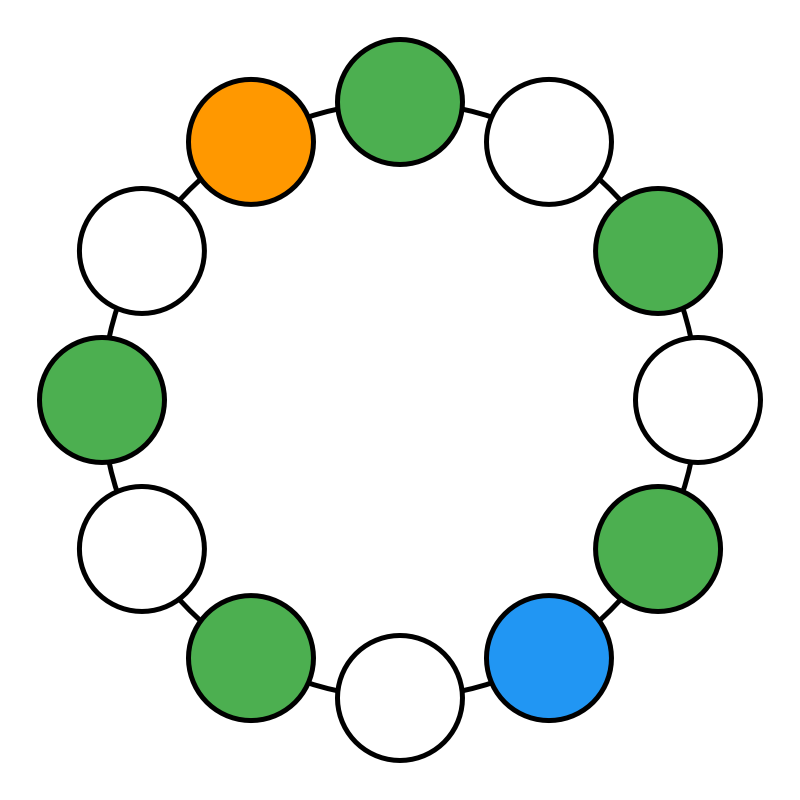
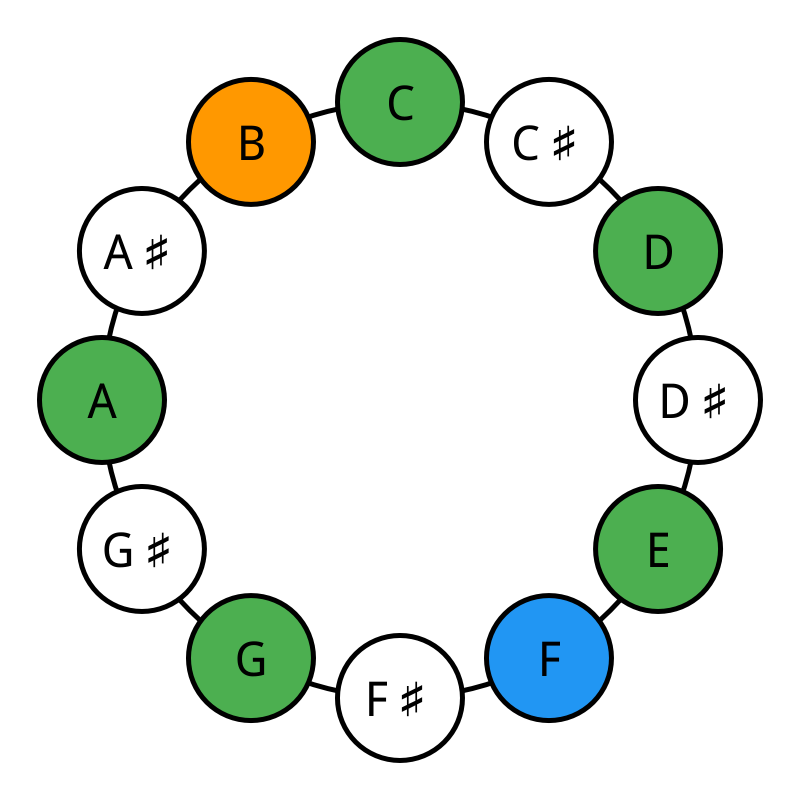
bracelet diagram label (#34)

diff --git a/pkg/illustations/bracelet.go b/pkg/illustations/bracelet.go
@@ -33,10 +33,14 @@ func pitchSliceToMap(pitches []pitch.Type) map[pitch.Type]struct{} {
 	return pitchMap
 }
 
-func drawBracelet(pitches []pitch.Type, circle []pitch.Type) image.Image {
+func drawBracelet(pitches []pitch.Type, circle []pitch.Type, labels map[pitch.Type]string) (image.Image, error) {
 	width := 800
 	height := 800
 	dc := gg.NewContext(width, height)
+	if err := dc.LoadFontFace("DroidSansFallback.ttf", 48); err != nil {
+		return nil, err
+	}
+
 	centerX := float64(width) / 2
 	centerY := float64(height) / 2
 
@@ -89,15 +93,48 @@ func drawBracelet(pitches []pitch.Type, circle []pitch.Type) image.Image {
 
 		// fill
 		dc.Fill()
+
+		// draw text
+		dc.SetRGB(0, 0, 0)
+		dc.DrawStringAnchored(labels[p], centerX+x, centerY-y, 0.5, 0.5)
 	}
 
-	return dc.Image()
+	return dc.Image(), nil
 }
 
-func PitchClassBracelet(pitches []pitch.Type) image.Image {
-	return drawBracelet(pitches, pitch.AllPitches())
+func PitchClassBracelet(pitches []pitch.Type) (image.Image, error) {
+	labels := map[pitch.Type]string{
+		pitch.CNatural: "C",
+		pitch.CSharp:   "C♯",
+		pitch.DNatural: "D",
+		pitch.DSharp:   "D♯",
+		pitch.ENatural: "E",
+		pitch.FNatural: "F",
+		pitch.FSharp:   "F♯",
+		pitch.GNatural: "G",
+		pitch.GSharp:   "G♯",
+		pitch.ANatural: "A",
+		pitch.ASharp:   "A♯",
+		pitch.BNatural: "B",
+	}
+
+	return drawBracelet(pitches, pitch.AllPitches(), labels)
 }
 
-func CircleOfFifthBracelet(pitches []pitch.Type) image.Image {
-	return drawBracelet(pitches, circleOfFifths())
+func CircleOfFifthBracelet(pitches []pitch.Type) (image.Image, error) {
+	labels := map[pitch.Type]string{
+		pitch.CNatural: "C",
+		pitch.CSharp:   "C♯",
+		pitch.DNatural: "D",
+		pitch.DSharp:   "E♭",
+		pitch.ENatural: "E",
+		pitch.FNatural: "F",
+		pitch.FSharp:   "F♯",
+		pitch.GNatural: "G",
+		pitch.GSharp:   "A♭",
+		pitch.ANatural: "A",
+		pitch.ASharp:   "B♭",
+		pitch.BNatural: "B",
+	}
+	return drawBracelet(pitches, circleOfFifths(), labels)
 }

diff --git a/pkg/theory/scale/scale.go b/pkg/theory/scale/scale.go
@@ -1941,12 +1941,12 @@ func (s Type) Balanced() bool {
 }
 
 // FifthGeneratorRoot returns a pitch and degree where the scale can be generated by fetching the next fifth, assuming scale stars with C
-func (s Type) FifthGeneratorRoot() pitch.WithDegree {
+func (s Type) FifthGeneratorRoot() Generator {
 	return s.FifthGeneratorRootWithTonic(pitch.CNatural)
 }
 
 // FifthGeneratorRootWithTonic returns a pitch and degree where the scale can be generated by fetching the next fifth with custom tonic
-func (s Type) FifthGeneratorRootWithTonic(tonic pitch.Type) pitch.WithDegree {
+func (s Type) FifthGeneratorRootWithTonic(tonic pitch.Type) Generator {
 	allPitches := s.Pitches(tonic)
 	orphanPitches := make([]pitch.WithDegree, 0)
 	centerPitches := make([]pitch.WithDegree, 0)
@@ -1969,11 +1969,12 @@ func (s Type) FifthGeneratorRootWithTonic(tonic pitch.Type) pitch.WithDegree {
 		}
 	}
 
-	if len(leftPitches) == 1 {
-		return leftPitches[0]
+	return Generator{
+		Orphan: orphanPitches,
+		Left:   leftPitches,
+		Center: centerPitches,
+		Right:  rightPitches,
 	}
-
-	return pitch.WithDegree{}
 }
 
 func makePitchMap(pitches []pitch.Type) map[pitch.Type]struct{} {
@@ -1991,4 +1992,28 @@ func FromInt(num int) Type {
 		return Invalid
 	}
 	return Type(num)
+}
+
+// Generator is scale generator components
+type Generator struct {
+	Orphan []pitch.WithDegree
+	Left   []pitch.WithDegree
+	Center []pitch.WithDegree
+	Right  []pitch.WithDegree
+}
+
+func (g Generator) Root() pitch.WithDegree {
+	if len(g.Left) == 1 {
+		return g.Left[0]
+	}
+
+	return pitch.WithDegree{}
+}
+
+func (g Generator) Edge() pitch.WithDegree {
+	if len(g.Right) == 1 {
+		return g.Right[0]
+	}
+
+	return pitch.WithDegree{}
 }

diff --git a/internal/theory/handler_scale.go b/internal/theory/handler_scale.go
@@ -146,10 +146,18 @@ func (h theoryHandler) IllustrateScaleAsPitchClassBraceletDiagram(writer http.Re
 		pitches = append(pitches, pitch.FromInt(v+1))
 	}
 
+	// draw bracelet illustration
+	img, err := illustations.PitchClassBracelet(pitches)
+	if err != nil {
+		h.Logger().With(zap.Error(err)).Error("failed to draw bracelet diagram illustration for scale")
+		writer.WriteHeader(http.StatusInternalServerError)
+		return
+	}
+
 	writer.WriteHeader(http.StatusOK)
 	writer.Header().Set("Content-Type", "image/png")
 	writer.Header().Set("Content-Disposition", fmt.Sprintf("inline; filename=%q", fmt.Sprintf("%sCircleOfFifthBracelet.png", scale.Name)))
-	_ = png.Encode(writer, illustations.PitchClassBracelet(pitches))
+	_ = png.Encode(writer, img)
 }
 
 func (h theoryHandler) IllustrateScaleAsCircleOfFifthBraceletDiagram(writer http.ResponseWriter, request *http.Request) {
@@ -173,8 +181,16 @@ func (h theoryHandler) IllustrateScaleAsCircleOfFifthBraceletDiagram(writer http
 		pitches = append(pitches, pitch.FromInt(v+1))
 	}
 
+	// draw bracelet illustration
+	img, err := illustations.CircleOfFifthBracelet(pitches)
+	if err != nil {
+		h.Logger().With(zap.Error(err)).Error("failed to draw bracelet diagram illustration for scale")
+		writer.WriteHeader(http.StatusInternalServerError)
+		return
+	}
+
 	writer.WriteHeader(http.StatusOK)
 	writer.Header().Set("Content-Type", "image/png")
 	writer.Header().Set("Content-Disposition", fmt.Sprintf("inline; filename=%q", fmt.Sprintf("%sCircleOfFifthBracelet.png", scale.Name)))
-	_ = png.Encode(writer, illustations.CircleOfFifthBracelet(pitches))
+	_ = png.Encode(writer, img)
 }

diff --git a/internal/theory/handler_key.go b/internal/theory/handler_key.go
@@ -158,10 +158,18 @@ func (h theoryHandler) IllustrateKeyAsPitchClassBraceletDiagram(writer http.Resp
 		pitches = append(pitches, pitch.FromInt(int(v.ID)))
 	}
 
+	// draw bracelet diagram
+	img, err := illustations.PitchClassBracelet(pitches)
+	if err != nil {
+		h.Logger().With(zap.Error(err)).Error("failed to draw bracelet diagram illustration for key")
+		writer.WriteHeader(http.StatusInternalServerError)
+		return
+	}
+
 	writer.WriteHeader(http.StatusOK)
 	writer.Header().Set("Content-Type", "image/png")
 	writer.Header().Set("Content-Disposition", fmt.Sprintf("inline; filename=%q", fmt.Sprintf("%sCircleOfFifthBracelet.png", key.Name)))
-	_ = png.Encode(writer, illustations.PitchClassBracelet(pitches))
+	_ = png.Encode(writer, img)
 }
 
 func (h theoryHandler) IllustrateKeyAsCircleOfFifthBraceletDiagram(writer http.ResponseWriter, request *http.Request) {
@@ -190,8 +198,16 @@ func (h theoryHandler) IllustrateKeyAsCircleOfFifthBraceletDiagram(writer http.R
 		pitches = append(pitches, pitch.FromInt(int(v.ID)))
 	}
 
+	// draw bracelet diagram
+	img, err := illustations.CircleOfFifthBracelet(pitches)
+	if err != nil {
+		h.Logger().With(zap.Error(err)).Error("failed to draw bracelet diagram illustration for key")
+		writer.WriteHeader(http.StatusInternalServerError)
+		return
+	}
+
 	writer.WriteHeader(http.StatusOK)
 	writer.Header().Set("Content-Type", "image/png")
 	writer.Header().Set("Content-Disposition", fmt.Sprintf("inline; filename=%q", fmt.Sprintf("%sCircleOfFifthBracelet.png", key.Name)))
-	_ = png.Encode(writer, illustations.CircleOfFifthBracelet(pitches))
+	_ = png.Encode(writer, img)
 }

diff --git a/pkg/illustations/bracelet_test.go b/pkg/illustations/bracelet_test.go
@@ -19,8 +19,11 @@ func TestPitchClassBracelet(t *testing.T) {
 	}
 	defer func() { _ = os.Remove(file.Name()) }()
 
+	img, err := illustations.PitchClassBracelet(scale.Ionian.Pitches(pitch.CNatural))
+	require.NoError(t, err)
+
 	// draw CNaturalIonian
-	require.NoError(t, png.Encode(file, illustations.PitchClassBracelet(scale.Ionian.Pitches(pitch.CNatural))))
+	require.NoError(t, png.Encode(file, img))
 }
 
 func TestCircleOfFifthBracelet(t *testing.T) {
@@ -30,6 +33,9 @@ func TestCircleOfFifthBracelet(t *testing.T) {
 	}
 	defer func() { _ = os.Remove(file.Name()) }()
 
+	img, err := illustations.CircleOfFifthBracelet(scale.Ionian.Pitches(pitch.CNatural))
+	require.NoError(t, err)
+
 	// draw CNaturalIonian
-	require.NoError(t, png.Encode(file, illustations.CircleOfFifthBracelet(scale.Ionian.Pitches(pitch.CNatural))))
+	require.NoError(t, png.Encode(file, img))
 }

diff --git a/pkg/theory/scale/scale_test.go b/pkg/theory/scale/scale_test.go
@@ -238,7 +238,8 @@ func TestType_FifthGeneratorRoot(t *testing.T) {
 
 	for _, tc := range testCases {
 		t.Run(tc.Title, func(t *testing.T) {
-			assert.Equal(t, tc.ExpectedRoot, tc.GivenScale.FifthGeneratorRoot())
+			generator := tc.GivenScale.FifthGeneratorRoot()
+			assert.Equal(t, tc.ExpectedRoot, generator.Root())
 		})
 	}
 }
@@ -298,7 +299,8 @@ func TestType_FifthGeneratorRootWithTonic(t *testing.T) {
 
 	for _, tc := range testCases {
 		t.Run(tc.Title, func(t *testing.T) {
-			assert.Equal(t, tc.ExpectedRoot, tc.GivenScale.FifthGeneratorRootWithTonic(tc.GivenTonic))
+			generator := tc.GivenScale.FifthGeneratorRootWithTonic(tc.GivenTonic)
+			assert.Equal(t, tc.ExpectedRoot, generator.Root())
 		})
 	}
 }

diff --git a/cmd/api/main.go b/cmd/api/main.go
@@ -28,6 +28,7 @@ func main() {
 	vpr, err := loadConfig()
 	if err != nil {
 		logger.With(zap.Error(err)).Fatal("failed to load configuration")
+		return
 	}
 
 	router := mux.NewRouter()
@@ -50,9 +51,15 @@ func main() {
 	))
 	if err != nil {
 		logger.With(zap.Error(err)).Fatal("failed to parse database connection config")
+		return
 	}
 
+	// connect to database
 	db, err := sqlx.Open("pgx", stdlib.RegisterConnConfig(connConfig))
+	if err != nil {
+		logger.With(zap.Error(err)).Fatal("failed to connect to database")
+		return
+	}
 
 	theoryRepository := theory.NewRepository(logger, db)
 	theoryService := theory.NewService(logger, theoryRepository)

diff --git a/cmd/gen/gen_scale.go b/cmd/gen/gen_scale.go
@@ -49,8 +49,8 @@ func buildScalesTableSeed(logger *zap.Logger, writer io.Writer) error {
 		reflectiveSymmetryAxes := v.ReflectiveSymmetryAxes()
 		encodedReflectiveSymmetryAxes, _ := json.Marshal(reflectiveSymmetryAxes)
 		balanced := v.Balanced()
-		fifthGeneratorRoot := v.FifthGeneratorRoot()
-		fifthGeneratorRootDegree := int(fifthGeneratorRoot.Degree)
+		fifthGenerator := v.FifthGeneratorRoot()
+		fifthGeneratorRootDegree := int(fifthGenerator.Root().Degree)
 		scaleEntries = append(scaleEntries, scaleEntry{
 			ID:                       int64(i + 1),
 			Name:                     v.String(),
